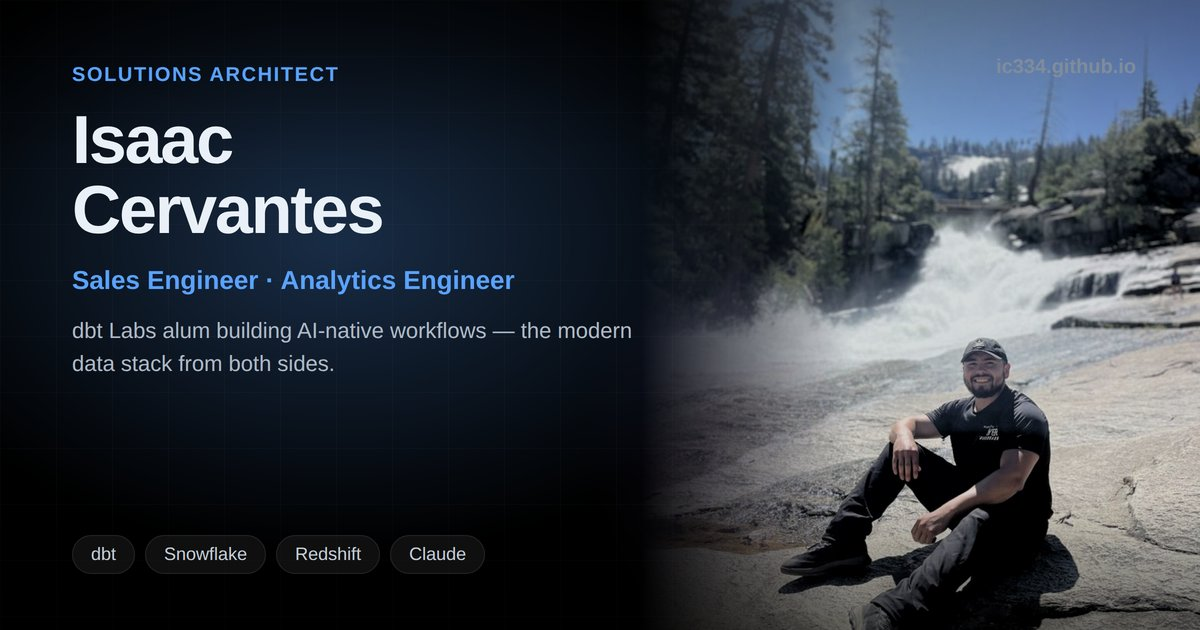
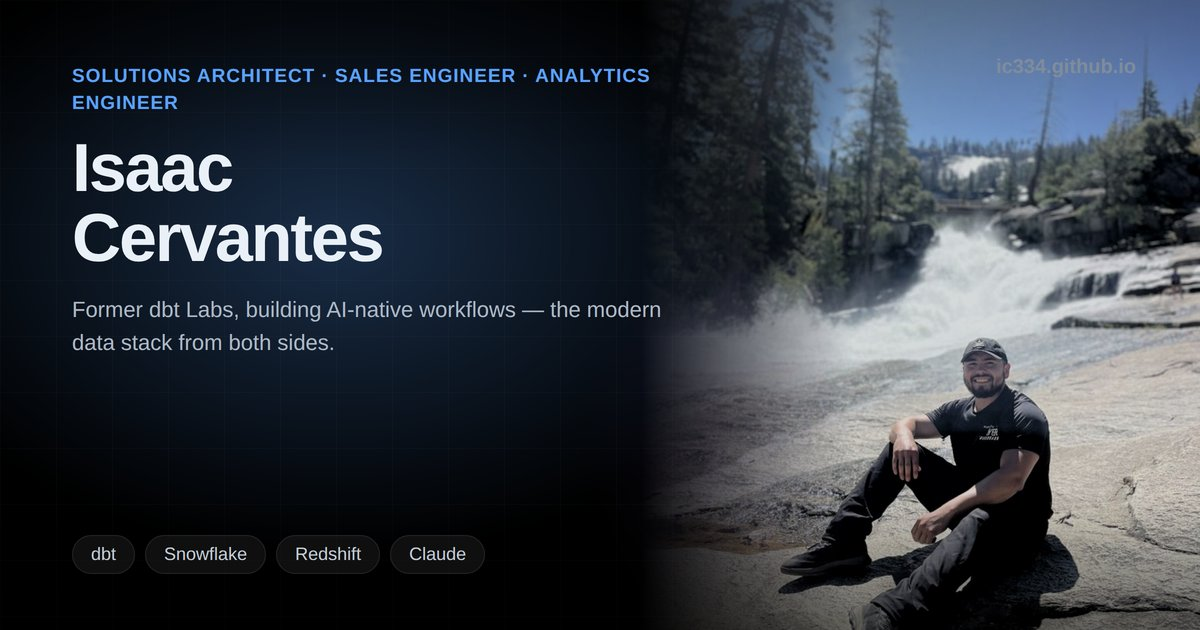
Fix "alum" wording and make title/OG-card role lists consistent

Changed region(s): [[0.0617, 0.0905, 0.555, 0.6032]]

diff --git a/index.html b/index.html
@@ -3,8 +3,8 @@
 <head>
 <meta charset="utf-8">
 <meta name="viewport" content="width=device-width, initial-scale=1">
-<title>Isaac Cervantes — Solutions Architect &amp; Analytics Engineer</title>
-<meta name="description" content="Solutions Architect, Sales Engineer, and Analytics Engineer. dbt Labs alum now building AI-native workflows. Deep analytics engineering background across the modern data stack.">
+<title>Isaac Cervantes — Solutions Architect, Sales Engineer &amp; Analytics Engineer</title>
+<meta name="description" content="Solutions Architect, Sales Engineer, and Analytics Engineer. Former dbt Labs, now building AI-native workflows. Deep analytics engineering background across the modern data stack.">
 <meta name="author" content="Isaac Cervantes">
 <meta name="theme-color" content="#000000">
 
@@ -17,16 +17,16 @@
 <!-- Open Graph / LinkedIn / Slack unfurl -->
 <meta property="og:type" content="website">
 <meta property="og:site_name" content="Isaac Cervantes">
-<meta property="og:title" content="Isaac Cervantes — Solutions Architect &amp; Analytics Engineer">
-<meta property="og:description" content="dbt Labs alum who came up through analytics engineering, now building AI-native workflows as a Solutions Architect.">
+<meta property="og:title" content="Isaac Cervantes — Solutions Architect, Sales Engineer &amp; Analytics Engineer">
+<meta property="og:description" content="Former dbt Labs Solutions Architect who came up through analytics engineering, now building AI-native workflows.">
 <meta property="og:url" content="https://ic334.github.io/">
 <meta property="og:image" content="https://ic334.github.io/assets/og-image.jpg">
 <meta property="og:image:width" content="1200">
 <meta property="og:image:height" content="630">
-<meta property="og:image:alt" content="Isaac Cervantes — Solutions Architect &amp; Analytics Engineer">
+<meta property="og:image:alt" content="Isaac Cervantes — Solutions Architect, Sales Engineer &amp; Analytics Engineer">
 <meta name="twitter:card" content="summary_large_image">
-<meta name="twitter:title" content="Isaac Cervantes — Solutions Architect &amp; Analytics Engineer">
-<meta name="twitter:description" content="dbt Labs alum who came up through analytics engineering, now building AI-native workflows as a Solutions Architect.">
+<meta name="twitter:title" content="Isaac Cervantes — Solutions Architect, Sales Engineer &amp; Analytics Engineer">
+<meta name="twitter:description" content="Former dbt Labs Solutions Architect who came up through analytics engineering, now building AI-native workflows.">
 <meta name="twitter:image" content="https://ic334.github.io/assets/og-image.jpg">
 
 <!-- Monogram favicon (inline SVG) - kept simple on purpose, see chat for why. -->
@@ -166,7 +166,7 @@
       <div class="pill animate"><span class="dot"></span>Open to remote, hybrid &amp; onsite (LA) SA/SE/Analytics roles</div>
       <div class="eyebrow animate a1" style="margin-top:20px">Solutions Architect &middot; Sales Engineer &middot; Analytics Engineer</div>
       <h1 class="animate a2">I turn messy data problems into <span class="grad">technical wins</span>.</h1>
-      <p class="lead animate a3">dbt&nbsp;Labs alum who came up through analytics engineering, now building AI&#8209;native workflows as a Solutions Architect. I know the modern data stack from both sides &mdash; the building and the selling.</p>
+      <p class="lead animate a3">Former dbt&nbsp;Labs Solutions Architect who came up through analytics engineering, now building AI&#8209;native workflows. I know the modern data stack from both sides &mdash; the building and the selling.</p>
       <div class="cta animate a4">
         <a class="btn primary" href="#contact">Get in touch</a>
         <a class="btn ghost" href="#work">See my work</a>
